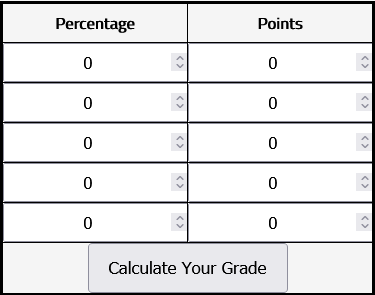
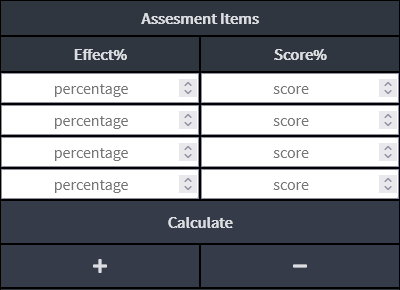
Add files via upload

diff --git a/index.html b/index.html
@@ -5,6 +5,7 @@
         <meta name="viewport" content="width=device-width, initial-scale=1.0">
         <title>Online Grade Calculator | dekaottoman</title>
         <link rel="stylesheet" href="style.css">
+        <link rel="stylesheet" href="navigation.css">
         <link rel="preconnect" href="https://fonts.googleapis.com">
         <link rel="preconnect" href="https://fonts.gstatic.com" crossorigin>
         <link href="https://fonts.googleapis.com/css2?family=Source+Sans+Pro&display=swap" rel="stylesheet">
@@ -12,6 +13,35 @@
         <script src="https://unpkg.com/sweetalert/dist/sweetalert.min.js"></script>
     </head>
     <body onload="display_input_body('input-body')">
+        <nav class="topbar">
+            <button onclick="how_to()">How To Use ?</button>
+        </nav>
+
+        <div class="assesment-items">
+            <table>
+                <thead>
+                    
+                    <tr><th colspan="2">Assesment Items</th></tr>
+                    <tr><th>Effect%</th><th>Score%</th></tr>
+                </thead>
+                <tbody id="input-body">
+                    
+                </tbody>
+                <tbody>
+                    <tr>
+                        <td colspan="2"><button onclick="display_score('display','grade-cell')">Calculate</button></td>
+                    </tr>
+                    <tr>
+                        <td><button onclick="increase_assesment_count('input-body')"><i class="fas fa-plus"></i></button></td>
+                        <td><button onclick="decrease_assesment_count('input-body')"><i class="fas fa-minus"></i></button></td>
+                    </tr>
+                    
+                    <tr><th id="display" colspan="2"><h1>Your Score</h1></th></tr>
+                    <tr><th><h2>Your Grade is :</h2></th><th id="grade-cell">Waiting</th></tr>
+                    <tr><th colspan="2"><h2>Good luck in your exams!!</h2></th></tr>
+                </tbody>
+            </table>
+        </div>
         
         <div class="letter">
             <table>
@@ -47,32 +77,6 @@
                 </tbody>
             </table>
         </div>
-
-        <div class="assesment-items">
-            <table>
-                <thead>
-                    
-                    <tr><th colspan="2">Assesment Items</th></tr>
-                    <tr><th>Effect%</th><th>Score%</th></tr>
-                </thead>
-                <tbody id="input-body">
-                    
-                </tbody>
-                <tbody>
-                    <tr>
-                        <td colspan="2"><button onclick="display_score('display','grade-cell')">Calculate</button></td>
-                    </tr>
-                    <tr>
-                        <td><button onclick="increase_assesment_count('input-body')"><i class="fas fa-plus"></i></button></td>
-                        <td><button onclick="decrease_assesment_count('input-body')"><i class="fas fa-minus"></i></button></td>
-                    </tr>
-                    
-                    <tr><th id="display" colspan="2"><h1>Your Score</h1></th></tr>
-                    <tr><th><h2>Your Grade is :</h2></th><th id="grade-cell">Waiting</th></tr>
-                </tbody>
-            </table>
-        </div>
-
     </body>
     <script type="text/javascript" src="script.js"></script>
 </html>

diff --git a/script.js b/script.js
@@ -185,3 +185,19 @@ function check_grade_order(){
     }
     return order;
 }
+
+function how_to(){
+    swal("How to Use?","To calculate your result from a course, you need to enter your scores and pertages of each respective assesment item in the Assesment Items. To change the count of assesment items use the plus and minus buttons.", "score_table.png" ,{
+        buttons: {next: "Next",},})
+        .then(() => {
+            swal("Letter Grades","To calculate your letter grades, enter the bottom values of each grade at the Grade Range table located at the bottom.", "grade_range.png" ,{
+            buttons: {next: "Next",},})
+                .then(() => {
+                swal("Output","The output of your calculation will be located at the bottom of the assesment table. There you can see your score and letter grade.", "output.png" ,{
+                buttons: {next: "Next",},})
+                    .then(()=>{
+                swal("Error Types","If you enter a negative value 0r a value above 100 in any input field the website will give you a range error (Range should be 0-100). Also for grades they need to be in order as well (Ex: B=90, A=80 gives an error because B cannot be greater or equal to A. Lastly the total of the percentages you enter needs to be 100. Otherwise it will give a total percentage error. )", "error.png")
+            });
+        });
+    });
+}

diff --git a/style.css b/style.css
@@ -4,8 +4,13 @@
 }
 
 body{
-    background-color: #dcdde1;
     font-family: 'Source Sans Pro', sans-serif;
+    padding-bottom: 100px;
+    background-image:url(https://images.unsplash.com/photo-1489486501123-5c1af10d0be6?ixid=MnwxMjA3fDB8MHxwaG90by1wYWdlfHx8fGVufDB8fHx8&ixlib=rb-1.2.1&auto=format&fit=crop&w=1050&q=80);
+    background-repeat:no-repeat;
+    background-attachment:fixed;
+    background-position:center;
+    background-size: cover;
 }
 
 .assesment-items{
@@ -69,6 +74,8 @@ body{
     padding-top: 7px;
     padding-bottom: 7px;
     overflow-y: scroll;
+    position: fixed;
+    bottom: 0;
 }
 
 .letter td{

diff --git a/navigation.css b/navigation.css
@@ -1,0 +1,21 @@
+body{
+    padding-top: 100px;
+}
+
+.topbar{
+    height: 60px;
+    width: 100%;
+    position: fixed;
+    top: 0;
+    background-color: #353b48;;
+}
+
+.topbar button{
+    margin: 15px;
+    padding: 5px 10px;
+    font-size: 15px;
+    font-family: 'Source Sans Pro', sans-serif;
+    text-align: center;
+    border: none;
+    color: #2f3640;
+}
